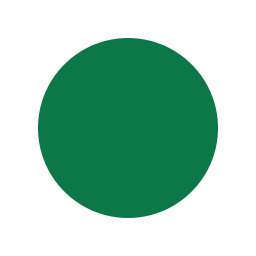
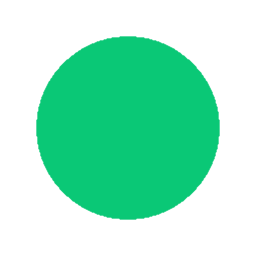
UI design

diff --git a/ressources/css/main.css b/ressources/css/main.css
@@ -1,5 +1,19 @@
 @import url('https://fonts.googleapis.com/css2?family=Poppins:wght@100;200;300;400;500;600;700;800;900&display=swap');
 
+
+
+[data-theme="light"] {
+    --blur-color: rgba(255, 255, 255, 0.59);
+    --text-color: #171717;
+    --input-color: rgba(255, 255, 255, 0.66);
+}
+
+[data-theme="dark"] {
+    --blur-color: rgba(0, 0, 0, 0.72);
+    --text-color: #f6f6f6;
+    --input-color: rgba(0, 0, 0, 0.48);
+}
+
 * {
     margin: 0;
     padding: 0;
@@ -16,8 +30,8 @@ body {
   ======================= */
 
 nav {
-    backdrop-filter: blur(15px) saturate(140%);
-    background: #ffffff96;
+    backdrop-filter: blur(15px) saturate(250%);
+    background: var(--blur-color);
     box-shadow: 0 0 10px rgba(0, 0, 0, 0.2);
     width: fit-content;
     height: 50px;
@@ -37,7 +51,7 @@ nav a {
     display: flex;
     align-items: center;
     text-decoration: none;
-    color: black;
+    color: var(--text-color);
     height: 100%;
     font-weight: 500;
 }
@@ -214,28 +228,33 @@ form {
 .input-box {
     display: flex;
     align-items: center;
+    gap: 2px;
 }
 
 .material-symbols-outlined { user-select: none; }
 
 .button-box {
-    background: #0ac876;
+    background: rgba(10, 200, 118, 0.71);
     border: none;
     padding: 5px 10px;
-    border-radius: 5px;
+    border-radius: 10px;
     cursor: pointer;
     font-weight: 600;
-    color: #171717;
+    color: var(--text-color);
 }
 
 input[type="text"] {
-    background: rgb(255 255 255 / 49%);
-    border: 1px solid #d0d0d0;
-    border-right: none;
-    border-radius: 5px 0 0 5px;
+    background: var(--input-color);
+    border: none;
+    color: var(--text-color);
+    border-radius: 12px 0 0 12px;
     padding: 10px 15px;
     width: 100%;
     height: 40px;
+}
+
+input[type="text"]:focus {
+    outline: none;
 }
 
 .box-flex {
@@ -247,6 +266,7 @@ input[type="text"] {
 #addDestination {
     display: none;
     padding-left: 10px;
+    cursor: pointer;
 }
 
 .point {
@@ -268,16 +288,14 @@ input[type="text"] {
 }
 
 .locate-button {
-    background: rgb(255 255 255 / 49%);
-    border: 1px solid #d0d0d0;
-    border-radius: 0 5px 5px 0;
+    background: var(--input-color);
+    border-radius: 0 12px 12px 0;
     padding: 9px 10px;
     cursor: pointer;
     height: 40px;
-    border-left: 2px solid #e1e1e1;
 }
 .locate-button:hover {
-    background: rgba(232, 232, 232, 0.27);
+    backdrop-filter: opacity(0.4);
 }
 
 .etape {
@@ -309,13 +327,14 @@ input[type="text"] {
   ======================= */
 
 .box-blur {
-    background: #ffffff96;
+    background: var(--blur-color);
+    color: var(--text-color);
     margin : 12px 12px 0 12px;
     box-shadow: 0 0 10px rgba(0, 0, 0, 0.2);
     padding: 10px;
     border-radius: 10px;
     width: 370px;
-    backdrop-filter: blur(15px) saturate(140%);
+    backdrop-filter: blur(15px) saturate(250%);
 }
 
 

diff --git a/ressources/js/mapInteraction.js b/ressources/js/mapInteraction.js
@@ -88,10 +88,11 @@ function printItinary(path) {
     })
 
     let lineStyle = new ol.style.Style({
+        // crate line with 6ce3a3 and 7px width AND 2px width with 000000
         stroke: new ol.style.Stroke({
-            color: '#0c7847',
-            width: 5
-        }),
+            color: '#0ac876',
+            width: 7,
+        })
     });
 
     // Créer une couche vectorielle à partir du tableau de géométries

diff --git a/src/vue/vueGenerale.php b/src/vue/vueGenerale.php
@@ -22,7 +22,7 @@ $assistantUrl = Navigator\Lib\Conteneur::recupererService("assistantUrl");
     <link href="https://fonts.googleapis.com/css2?family=Source+Sans+Pro&display=swap" rel="stylesheet">
     <link rel="stylesheet" href="https://fonts.googleapis.com/css2?family=Material+Symbols+Outlined:opsz,wght,FILL,GRAD@20..48,100..700,0..1,-50..200" />
 </head>
-<body>
+<body data-theme="dark">
 <header>
     <nav>
         <a class="gator" href="<?= $generateurUrl->generate("navigator"); ?>"><img class="logo" src="../ressources/img/logo_void.png" alt="logo"></a>

diff --git a/src/Configuration/ConfigurationBDDPostgreSQL.php b/src/Configuration/ConfigurationBDDPostgreSQL.php
@@ -7,12 +7,12 @@ use PDO;
 
 class ConfigurationBDDPostgreSQL implements ConfigurationBDDInterface {
     private string $nomBDD = "iut";
-//    private string $hostname = "localhost";
-    private string $hostname = "162.38.222.142";
+    private string $hostname = "localhost";
+//    private string $hostname = "162.38.222.142";
 
     public function getLogin(): string {
-//        return "postgres";
-        return "nalixt";
+        return "postgres";
+//        return "nalixt";
     }
 
     public function getMotDePasse(): string{
